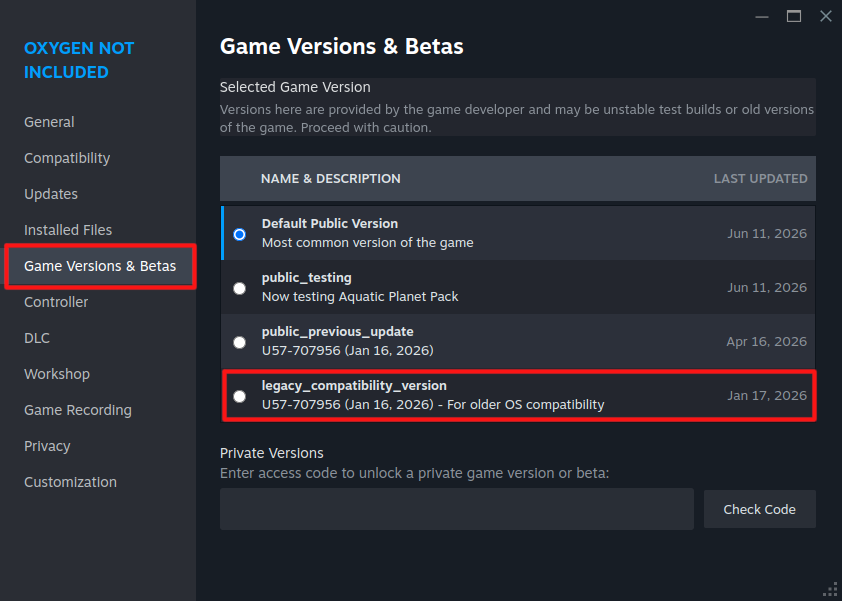
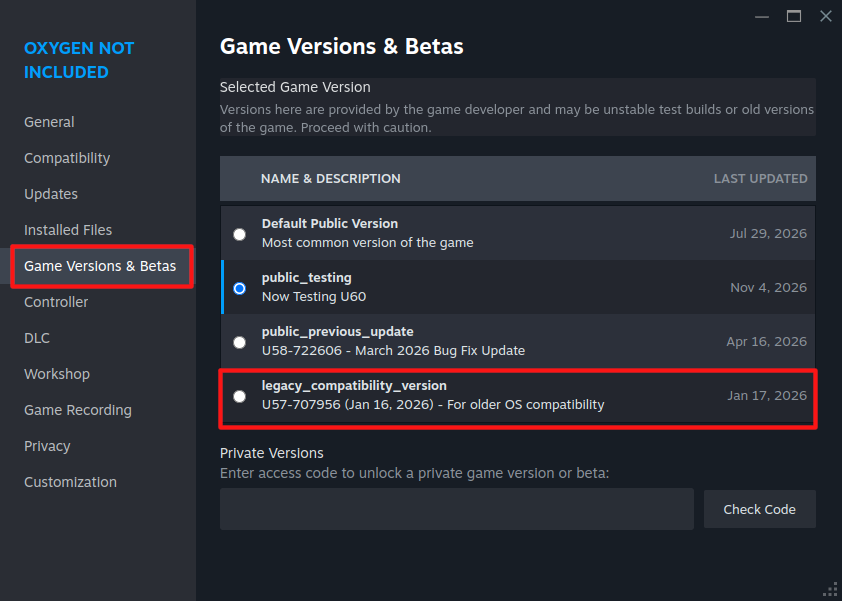
MechanicsStation: small refactoring

diff --git a/src/MechanicsStation/Patches.cs b/src/MechanicsStation/Patches.cs
@@ -128,7 +128,10 @@ namespace MechanicsStation
             {
                 if (__instance.tinkerMaterialTag == MechanicsStationConfig.TINKER_TOOLS)
                 {
-                    __result = true;
+                    if (__instance.TryGetComponent<TinkerableAttributes>(out var ta))
+                        __result = !ta.disabled;
+                    else
+                        __result = true;
                     return false;
                 }
                 return true;
@@ -195,6 +198,14 @@ namespace MechanicsStation
         [HarmonyPatch(typeof(Assets), nameof(Assets.AddBuildingDef))]
         private static class Assets_AddBuildingDef
         {
+            private static void AddAttribute(GameObject go, string attribute_id)
+            {
+                if (go.TryGetComponent(out Klei.AI.Modifiers modifiers))
+                {
+                    if (!modifiers.initialAttributes.Contains(attribute_id))
+                        modifiers.initialAttributes.Add(attribute_id);
+                }
+            }
             private static void Prefix(BuildingDef def)
             {
                 var go = def.BuildingComplete;
@@ -204,6 +215,7 @@ namespace MechanicsStation
                     if (def.RequiresPowerInput && go.TryGetComponent<ElementConverter>(out _) && !BuildingWithElementConverterStopList.Contains(def.PrefabID))
                     {
                         MakeMachineTinkerableSave(go);
+                        AddAttribute(go, Db.Get().Attributes.MachinerySpeed.Id);
                         // увеличить всасывание (впервую очередь для скруббера)
                         float multiplier = BASE_SPEED_VALUE + (ModOptions.Instance.machinery_speed_modifier / 100);
                         var kPrefabID = go.GetComponent<KPrefabID>();
@@ -236,7 +248,8 @@ namespace MechanicsStation
                         // скважина
                         if (def.PrefabID == OilWellCapConfig.ID)
                         {
-                            go.AddOrGet<TinkerableWorkable>();
+                            go.AddOrGet<TinkerableAttributes>();
+                            AddAttribute(go, CraftingSpeed.Id);
                         }
                         // удобрятор
                         if (def.PrefabID == FertilizerMakerConfig.ID)
@@ -249,16 +262,18 @@ namespace MechanicsStation
                         }
                     }
                     // фабрикаторы
-                    else if (go.TryGetComponent<ComplexFabricatorWorkable>(out _) && !BuildingWithComplexFabricatorWorkableStopList.Contains(def.PrefabID))
+                    if (go.TryGetComponent<ComplexFabricatorWorkable>(out _) && !BuildingWithComplexFabricatorWorkableStopList.Contains(def.PrefabID))
                     {
                         MakeMachineTinkerableSave(go);
-                        go.AddOrGet<TinkerableWorkable>();
+                        AddAttribute(go, CraftingSpeed.Id);
+                        go.AddOrGet<TinkerableAttributes>();
                     }
                     // специи
-                    else if (def.PrefabID == SpiceGrinderConfig.ID)
+                    if (def.PrefabID == SpiceGrinderConfig.ID)
                     {
                         MakeMachineTinkerableSave(go);
-                        go.AddOrGet<TinkerableWorkable>();
+                        AddAttribute(go, CraftingSpeed.Id);
+                        go.AddOrGet<TinkerableAttributes>();
                     }
                 }
             }
@@ -270,9 +285,9 @@ namespace MechanicsStation
         {
             private static void Postfix(Workable __instance, ref float __result)
             {
-                if (__instance.TryGetComponent<TinkerableWorkable>(out var tinkerableWorkable))
+                if (__instance.TryGetComponent<TinkerableAttributes>(out var ta))
                 {
-                    __result *= tinkerableWorkable.GetCraftingSpeedMultiplier();
+                    __result *= ta.CraftingSpeedMultiplier;
                 }
             }
         }
@@ -283,9 +298,9 @@ namespace MechanicsStation
         {
             private static void Prefix(OilWellCap __instance, ref float dt)
             {
-                if (__instance.TryGetComponent<TinkerableWorkable>(out var tinkerableWorkable))
+                if (__instance.TryGetComponent<TinkerableAttributes>(out var ta))
                 {
-                    dt *= tinkerableWorkable.GetMachinerySpeedMultiplier();
+                    dt *= ta.MachinerySpeedMultiplier;
                 }
             }
         }
@@ -359,24 +374,10 @@ namespace MechanicsStation
         {
             private static void Postfix(FossilMine __instance, bool active)
             {
-                if (__instance.TryGetComponent<TinkerableWorkable>(out var tw))
+                if (__instance.TryGetComponent<TinkerableAttributes>(out var ta))
                 {
-                    tw.disabled = !active;
-                    tw.Trigger((int)GameHashes.EffectRemoved);
-                }
-            }
-        }
-
-        [HarmonyPatch(typeof(Tinkerable), "HasEffect")]
-        private static class Tinkerable_HasEffect
-        {
-            private static void Postfix(Tinkerable __instance, ref bool __result)
-            {
-                if (__result) return;
-                if (__instance.tinkerMaterialTag == MechanicsStationConfig.TINKER_TOOLS
-                    && __instance.TryGetComponent<TinkerableWorkable>(out var tw))
-                {
-                    __result = tw.disabled;
+                    ta.disabled = !active;
+                    ta.Trigger((int)GameHashes.EffectRemoved);
                 }
             }
         }

diff --git a/src/MechanicsStation/TinkerableFertilizerMaker.cs b/src/MechanicsStation/TinkerableFertilizerMaker.cs
@@ -3,6 +3,7 @@ using PeterHan.PLib.Detours;
 
 namespace MechanicsStation
 {
+    [SkipSaveFileSerialization]
     public class TinkerableFertilizerMaker : KMonoBehaviour
     {
         private const float METHANE_PRODUCTION_RATE = 0.01f;
@@ -15,9 +16,12 @@ namespace MechanicsStation
 
         private static readonly IDetouredField<BuildingElementEmitter, bool> DIRTY = PDetours.DetourField<BuildingElementEmitter, bool>("dirty");
 
+        private AttributeInstance machinerySpeed;
+
         protected override void OnSpawn()
         {
             base.OnSpawn();
+            machinerySpeed = gameObject.GetAttributes().Get(Db.Get().Attributes.MachinerySpeed);
             hEffectAdded = Subscribe((int)GameHashes.EffectAdded, OnEffectChangedDelegate, this);
             hEffectRemoved = Subscribe((int)GameHashes.EffectRemoved, OnEffectChangedDelegate, this);
             OnEffectChanged(null);
@@ -37,7 +41,7 @@ namespace MechanicsStation
         {
             if (buildingElementEmitter != null)
             {
-                buildingElementEmitter.emitRate = base_methane_production_rate * gameObject.GetAttributes().GetValue(ModAssets.MACHINERY_SPEED_MODIFIER_NAME);
+                buildingElementEmitter.emitRate = base_methane_production_rate * machinerySpeed.GetTotalValue();
                 DIRTY.Set(buildingElementEmitter, true);
             }
         }

diff --git a/src/MechanicsStation/TinkerableAttributes.cs b/src/MechanicsStation/TinkerableAttributes.cs
@@ -1,0 +1,26 @@
+using Klei.AI;
+using UnityEngine;
+
+namespace MechanicsStation
+{
+    [SkipSaveFileSerialization]
+    public class TinkerableAttributes : KMonoBehaviour
+    {
+        [SerializeField]
+        public bool disabled = false;
+
+        private AttributeInstance craftingSpeed;
+        private AttributeInstance machinerySpeed;
+
+        public float CraftingSpeedMultiplier => craftingSpeed?.GetTotalValue() ?? 1f;
+        public float MachinerySpeedMultiplier => machinerySpeed?.GetTotalValue() ?? 1f;
+
+        protected override void OnPrefabInit()
+        {
+            base.OnPrefabInit();
+            var attributes = gameObject.GetAttributes();
+            craftingSpeed = attributes.Get(ModAssets.CraftingSpeed);
+            machinerySpeed = attributes.Get(Db.Get().Attributes.MachinerySpeed);
+        }
+    }
+}

diff --git a/src/MechanicsStation/ModAssets.cs b/src/MechanicsStation/ModAssets.cs
@@ -187,7 +187,8 @@ namespace MechanicsStation
         // сделать постройку улучшаемой и восстановить оригинальные параметры RoomTracker если они были
         internal static Tinkerable MakeMachineTinkerableSave(GameObject go)
         {
-            Tinkerable tinkerable;
+            if (go.TryGetComponent(out Tinkerable tinkerable))
+                return tinkerable;
             // проверяем был ли до нас
             var originRoomTracker = go.GetComponent<RoomTracker>();
             if (originRoomTracker != null)
